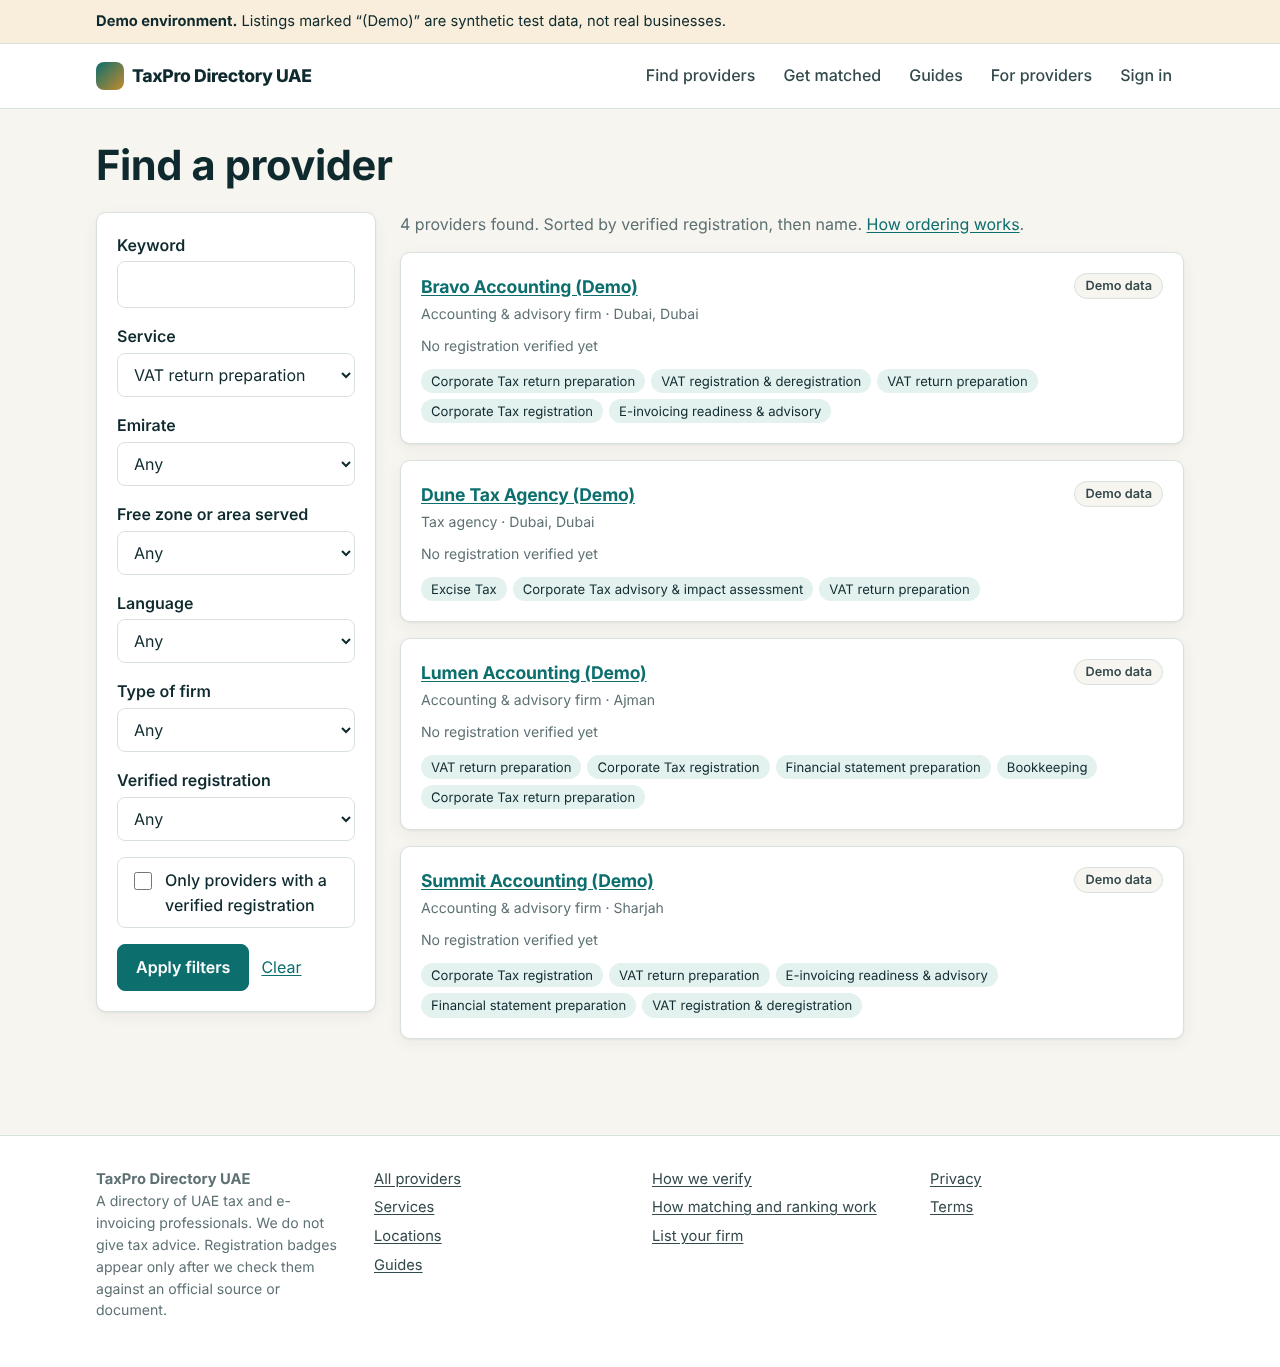
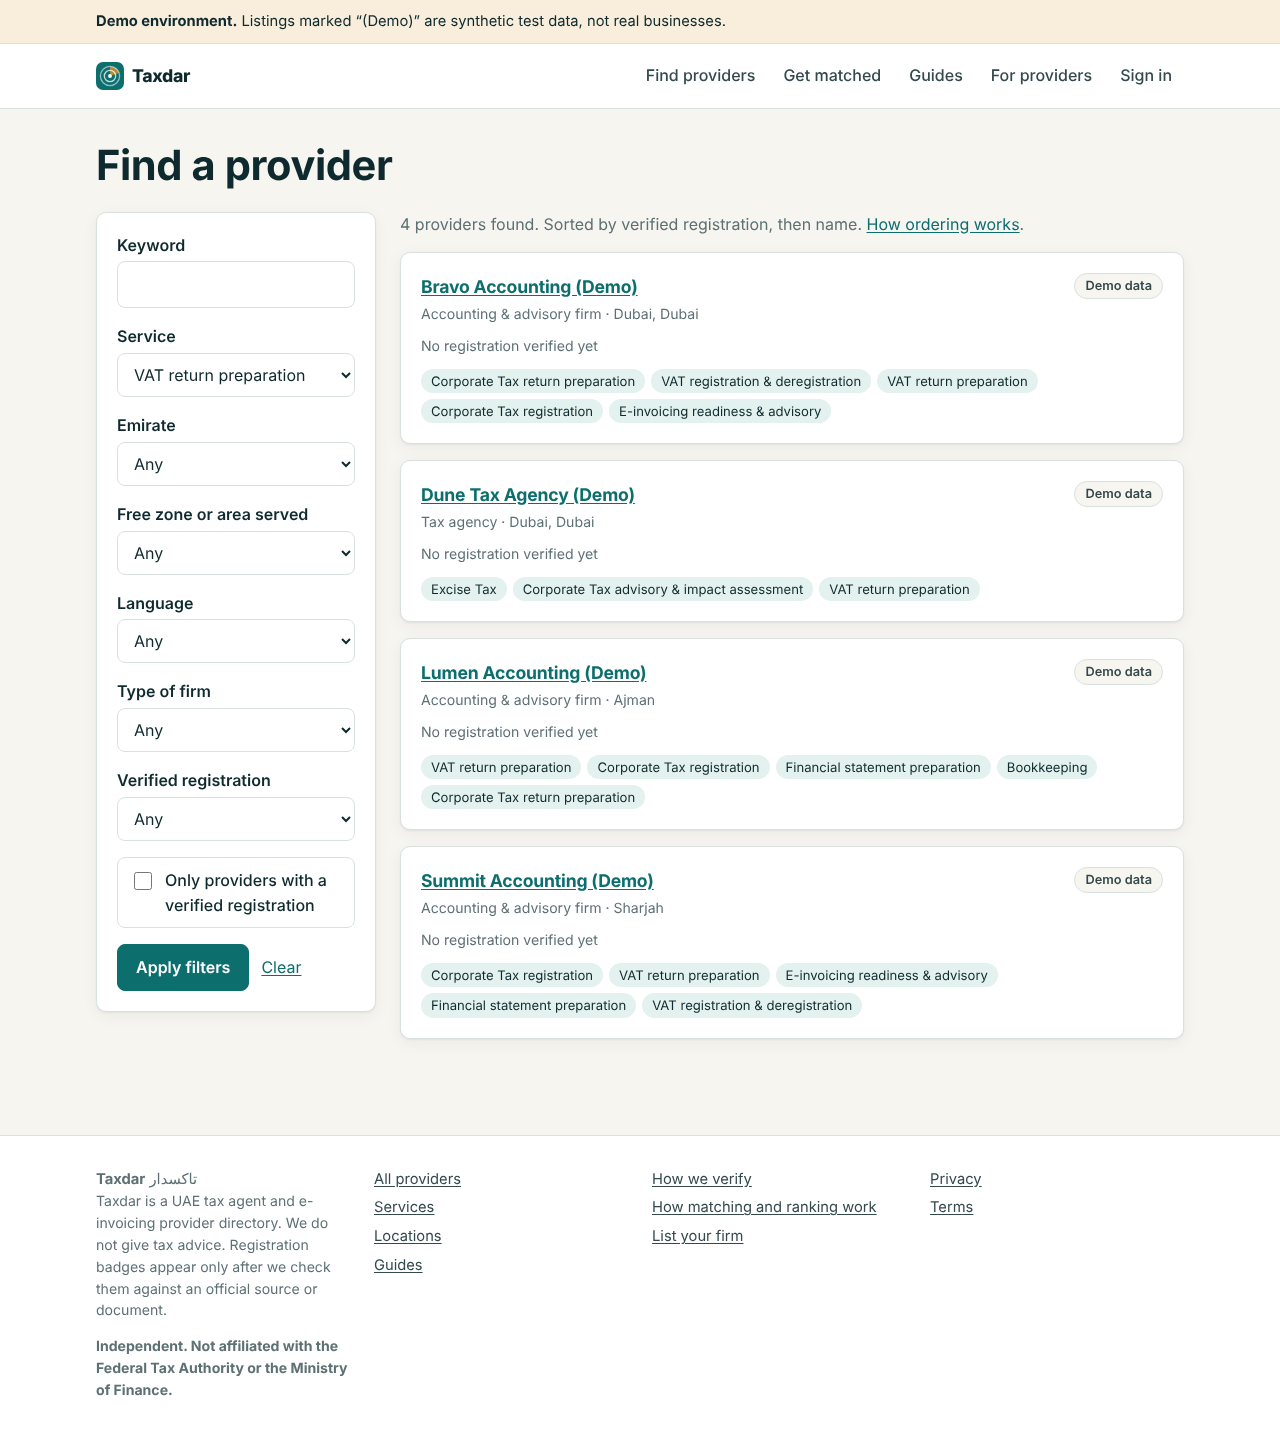
Rebrand to Taxdar (owner decision D-022)
- Name, Arabic name, descriptor ("UAE tax agent and e-invoicing provider
  directory") and an independence line, all in src/lib/brand.ts
- New radar logo mark and favicon (app/icon.svg)
- Organization and WebSite structured data carry the Arabic alternate name
- Email subjects start with "Taxdar:"; every email ends with the
  descriptor and the independence line
- Letters, outreach plan, README, backlog and decisions updated;
  screenshots refreshed

Claude-Session: https://claude.ai/code/session_01CjftCtjsy6YL3QLnJSHWGL

diff --git a/src/lib/notify.ts b/src/lib/notify.ts
@@ -4,6 +4,7 @@ import { and, eq, inArray, lte, sql } from "drizzle-orm";
 import type { DB } from "@/db/client";
 import { notifications, enquiryRecipients } from "@/db/schema";
 import { config } from "./config";
+import { BRAND } from "./brand";
 import { audit, SYSTEM, type Actor } from "./audit";
 
 export type Template = "provider_new_enquiry" | "buyer_enquiry_receipt" | "claim_decision" | "account_created" | "provider_enquiry_withdrawn" | "password_reset" | "verify_email";
@@ -50,12 +51,17 @@ export async function enqueue(
  * so personal data is not spread across mailboxes and access is logged.
  */
 export function render(template: Template, p: Record<string, unknown>): Omit<Mail, "to"> {
+  const m = renderBody(template, p);
+  return { subject: `${BRAND.name}: ${m.subject}`, text: `${m.text}\n\n${BRAND.name}, ${BRAND.descriptor}. ${BRAND.independence}` };
+}
+
+function renderBody(template: Template, p: Record<string, unknown>): Omit<Mail, "to"> {
   const site = config.siteUrl;
   switch (template) {
     case "provider_new_enquiry":
       return {
         subject: `New enquiry ${p.ref} for ${p.orgName}`,
-        text: `A business has chosen to contact ${p.orgName} through the directory.\n\nServices requested: ${(p.services as string[]).join(", ")}\nEmirate: ${p.emirate}\n\nSign in to view the enquiry and the contact details: ${site}/provider/enquiries/${p.recipientId}\n\nPlease accept or decline within 2 business days so the business can look elsewhere if needed.`,
+        text: `A business has chosen to contact ${p.orgName} through Taxdar.\n\nServices requested: ${(p.services as string[]).join(", ")}\nEmirate: ${p.emirate}\n\nSign in to view the enquiry and the contact details: ${site}/provider/enquiries/${p.recipientId}\n\nPlease accept or decline within 2 business days so the business can look elsewhere if needed.`,
       };
     case "buyer_enquiry_receipt":
       return {
@@ -80,7 +86,7 @@ export function render(template: Template, p: Record<string, unknown>): Omit<Mai
     case "verify_email":
       return {
         subject: "Confirm your email address",
-        text: `Please confirm this email address so your firm can receive enquiries through the directory: ${site}/verify-email/${p.setPasswordToken}\nThe link works once and expires in 72 hours. If you did not create a listing, ignore this email.`,
+        text: `Please confirm this email address so your firm can receive enquiries through Taxdar: ${site}/verify-email/${p.setPasswordToken}\nThe link works once and expires in 72 hours. If you did not create a listing, ignore this email.`,
       };
     case "password_reset":
       return {

diff --git a/src/app/layout.tsx b/src/app/layout.tsx
@@ -4,10 +4,12 @@ import "./globals.css";
 import { config } from "@/lib/config";
 import { BRAND } from "@/lib/brand";
 import { currentUser } from "@/lib/session";
+import { LogoMark } from "@/components/logo";
 
 export const metadata: Metadata = {
   metadataBase: new URL(config.siteUrl),
-  title: { default: `${BRAND.name}: find UAE tax and e-invoicing professionals`, template: `%s | ${BRAND.name}` },
+  title: { default: `${BRAND.name}: ${BRAND.descriptor}`, template: `%s | ${BRAND.name}` },
+  applicationName: BRAND.name,
   description: BRAND.description,
   robots: config.allowIndexing ? undefined : { index: false, follow: false },
 };
@@ -25,7 +27,7 @@ export default async function RootLayout({ children }: { children: React.ReactNo
         )}
         <header className="site-header">
           <div className="container bar">
-            <Link href="/" className="logo"><span className="logo-mark" aria-hidden="true" />{BRAND.name}</Link>
+            <Link href="/" className="logo"><LogoMark />{BRAND.name}</Link>
             <nav className="nav" aria-label="Main">
               <Link href="/providers">Find providers</Link>
               <Link href="/match">Get matched</Link>
@@ -47,8 +49,9 @@ export default async function RootLayout({ children }: { children: React.ReactNo
         <footer className="site-footer">
           <div className="container cols">
             <div>
-              <strong>{BRAND.name}</strong>
-              <p className="small">A directory of UAE tax and e-invoicing professionals. We do not give tax advice. Registration badges appear only after we check them against an official source or document.</p>
+              <strong>{BRAND.name}</strong> <span lang="ar" dir="rtl">{BRAND.nameAr}</span>
+              <p className="small">{BRAND.name} is a {BRAND.descriptor}. We do not give tax advice. Registration badges appear only after we check them against an official source or document.</p>
+              <p className="small"><strong>{BRAND.independence}</strong></p>
             </div>
             <div>
               <ul>

diff --git a/src/lib/brand.ts b/src/lib/brand.ts
@@ -1,6 +1,11 @@
-/** Working name until the owner chooses a brand and domain (TASK_BACKLOG BIZ-01). */
+/** Brand chosen by the owner on 2026-10-08 (BIZ-01, D-022). Domain and trade-mark checks are still pending. */
 export const BRAND = {
-  name: "TaxPro Directory UAE",
+  name: "Taxdar",
+  nameAr: "تاكسدار",
+  /** Keyword-bearing descriptor used next to the name in titles, structured data and the footer (SEO/GEO). */
+  descriptor: "UAE tax agent and e-invoicing provider directory",
+  /** Shown on every page: the directory must never read as an official service. */
+  independence: "Independent. Not affiliated with the Federal Tax Authority or the Ministry of Finance.",
   description:
-    "Find UAE Corporate Tax, VAT and e-invoicing professionals. Compare services, languages and checked registrations, then send one enquiry to the providers you choose.",
+    "Taxdar is a UAE directory of tax agents and e-invoicing providers. Compare Corporate Tax, VAT and e-invoicing services, languages and checked registrations, then send one enquiry to the providers you choose.",
 } as const;

diff --git a/src/app/page.tsx b/src/app/page.tsx
@@ -13,7 +13,8 @@ export default async function Home() {
   const categories = Object.entries(SERVICE_CATEGORIES);
   return (
     <>
-      <JsonLd data={{ "@context": "https://schema.org", "@type": "WebSite", name: BRAND.name, url: config.siteUrl, potentialAction: { "@type": "SearchAction", target: `${config.siteUrl}/providers?q={query}`, "query-input": "required name=query" } }} />
+      <JsonLd data={{ "@context": "https://schema.org", "@type": "Organization", name: BRAND.name, alternateName: BRAND.nameAr, description: BRAND.description, url: config.siteUrl, logo: `${config.siteUrl}/icon.svg` }} />
+      <JsonLd data={{ "@context": "https://schema.org", "@type": "WebSite", name: BRAND.name, alternateName: BRAND.nameAr, url: config.siteUrl, potentialAction: { "@type": "SearchAction", target: `${config.siteUrl}/providers?q={query}`, "query-input": "required name=query" } }} />
       <section className="hero">
         <div className="container">
           <h1>Find UAE tax and e-invoicing professionals whose registrations you can check</h1>

diff --git a/src/app/globals.css b/src/app/globals.css
@@ -50,7 +50,7 @@ p { margin: 0 0 1em; }
 .site-header { background: var(--surface); border-bottom: 1px solid var(--line); position: sticky; top: 0; z-index: 20; }
 .site-header .bar { display: flex; align-items: center; justify-content: space-between; gap: 16px; min-height: 64px; flex-wrap: wrap; }
 .logo { font-weight: 800; color: var(--ink); text-decoration: none; letter-spacing: -0.02em; font-size: 1.1rem; display: flex; align-items: center; gap: 8px; }
-.logo-mark { width: 28px; height: 28px; border-radius: 8px; background: linear-gradient(135deg, var(--brand), var(--accent)); display: inline-block; }
+.logo-mark { flex: none; display: inline-block; }
 .nav { display: flex; gap: 4px; flex-wrap: wrap; align-items: center; }
 .nav a { padding: 8px 12px; border-radius: 8px; color: var(--ink-2); text-decoration: none; font-weight: 500; }
 .nav a:hover, .nav-button:hover { background: var(--brand-soft); color: var(--ink); }

diff --git a/src/components/logo.tsx b/src/components/logo.tsx
@@ -1,0 +1,12 @@
+/** Taxdar mark: a radar sweep (finding the right professional) in the brand teal and gold. Decorative. */
+export function LogoMark({ size = 28 }: { size?: number }) {
+  return (
+    <svg width={size} height={size} viewBox="0 0 32 32" aria-hidden="true" focusable="false" className="logo-mark">
+      <rect width="32" height="32" rx="8" fill="var(--brand)" />
+      <path d="M16 16 L16 5 A11 11 0 0 1 26.4 12.6 Z" fill="var(--accent)" opacity="0.9" />
+      <circle cx="16" cy="16" r="11" fill="none" stroke="#fff" strokeOpacity="0.55" strokeWidth="1.5" />
+      <circle cx="16" cy="16" r="6.5" fill="none" stroke="#fff" strokeOpacity="0.75" strokeWidth="1.5" />
+      <circle cx="16" cy="16" r="2.2" fill="#fff" />
+    </svg>
+  );
+}

diff --git a/docs/outreach/03-provider-outreach-plan.md b/docs/outreach/03-provider-outreach-plan.md
@@ -59,7 +59,7 @@ Track the funnel in a simple sheet with these stages: contacted → replied → 
 
 Dear [Firm name] team,
 
-I am [your name], founder of [Brand], a directory for UAE businesses looking for tax agents and e-invoicing providers. We have not launched yet. I am contacting a small number of firms that we would like to include from the start, and [Firm name] is one of them because of [specific reason: your corporate tax work for family businesses in Sharjah / your Arabic and English service / your published e-invoicing guidance].
+I am [your name], founder of Taxdar, a directory for UAE businesses looking for tax agents and e-invoicing providers. We have not launched yet. I am contacting a small number of firms that we would like to include from the start, and [Firm name] is one of them because of [specific reason: your corporate tax work for family businesses in Sharjah / your Arabic and English service / your published e-invoicing guidance].
 
 How it works, briefly:
 - businesses answer a few questions about what they need;
@@ -85,7 +85,7 @@ Kind regards,
 
 Dear [Firm name] team,
 
-A short follow-up to my note last week about [Brand]. If a call isn't convenient, I'm happy to send a two-minute walkthrough instead.
+A short follow-up to my note last week about Taxdar. If a call isn't convenient, I'm happy to send a two-minute walkthrough instead.
 
 If now is not the right time, no reply is needed and I won't write again.
 
@@ -94,7 +94,7 @@ Kind regards,
 
 ### 4c. LinkedIn connection note (max 300 characters). ON HOLD until counsel confirms
 
-Hello [Name], I'm building [Brand], a UAE directory where businesses find tax agents and e-invoicing providers, with registrations checked before they show as verified. I'd value 20 minutes of your view on pricing before launch. Open to a quick call?
+Hello [Name], I'm building Taxdar, a UAE directory where businesses find tax agents and e-invoicing providers, with registrations checked before they show as verified. I'd value 20 minutes of your view on pricing before launch. Open to a quick call?
 
 ### 4d. Reply to a firm that wants to list
 

diff --git a/docs/TASK_BACKLOG.md b/docs/TASK_BACKLOG.md
@@ -13,7 +13,7 @@ Evidence for COMPLETE items: `EVIDENCE_LOG.md`.
 | LG-05 | Counsel: listing non-registered consultants next to registered agents (Tax Procedures law) | Counsel | BLOCKED | Opinion |
 | LG-06 | Privacy notice and terms are DRAFTS (`/privacy`, `/terms`) | Counsel | BLOCKED | Approved text |
 | LG-07 | Counsel: may the legal trade name and trademark contain "Tax" for a directory/platform licence (activity fit, regulator approval), and does the brand plus descriptor avoid implied FTA/MoF affiliation? (`docs/research/brand-name-options-2026-10.md`) | Counsel | BLOCKED | Written opinion |
-| BIZ-01 | Brand name and domain (working name "TaxPro Directory UAE"); options in `docs/research/brand-name-options-2026-10.md` (pick: Taxdar) | Owner | BLOCKED | Decide; registry and domain checks; purchase needs approval |
+| BIZ-01 | Brand name and domain: **Taxdar** chosen 2026-10-08 (D-022); app rebranded | Owner | IN PROGRESS | Check taxdar.ae / taxdar.com at a registrar; trade-mark search (MoE, WIPO; classes 35, 42); DET trade-name check; native Arabic review; counsel on LG-07; domain purchase needs approval |
 | BIZ-02 | Real prices, caps, refund policy (D-007 placeholders) | Owner | BLOCKED | Validate with 10+ provider interviews |
 | BIZ-03 | Ask the FTA and MoF for permission or a data feed for register data | Owner | BLOCKED | Letter (outreach approval) |
 | BIZ-04 | Real supply: onboard first providers via self-listing (outreach needs approval) | Owner | BLOCKED | Approve outreach plan |

diff --git a/docs/OWNER_QUESTIONS.md b/docs/OWNER_QUESTIONS.md
@@ -31,3 +31,6 @@ Engineering work that can be done without these answers is done. Each answer unb
 | Q9 | Use Claude's legal skills | **Not possible for this role.** The guide gate needs a named human professional with a credential, because the "Reviewed by" line is a public statement that a qualified person checked the text. An AI review cannot be that person. Claude can pre-review drafts (sources, copy rules) to save the reviewer's time. Candidate profile and sourcing in the decision memo |
 | Q10 | `*.gov.ae` allowed | **Not yet effective in this session.** The egress proxy still refuses tax.gov.ae (HTTP 403, organisation policy), and the web fetch tool cannot resolve `.ae` names. The environment's allowed domains need `tax.gov.ae`, `mof.gov.ae`, `u.ae`, `uaelegislation.gov.ae` (or `*.gov.ae`, `*.ae`), then a new session. RG-01 stays open |
 | Q11 | Private staging approved | Staging access gate built (HTTP Basic, fail closed, noindex). Deploying needs a hosting account in the owner's name (billable) and secrets. Steps in `docs/RUNBOOK.md` "Private staging" |
+
+### Round 2 (2026-10-08)
+- Q3: **Taxdar** chosen. App rebranded (name, descriptor, Arabic name, independence line, logo, favicon, structured data, email subjects). Still to do: registrar, trade-mark and trade-name checks before buying the domain.

diff --git a/docs/DECISIONS.md b/docs/DECISIONS.md
@@ -23,3 +23,4 @@
 | D-019 | 2026-10-08 | Tier 1 sources are limited to official domains (*.gov.ae, u.ae, ADGM, DIFC, WAM) | "Official" must be checkable by code, not by a label (review2 M3) | free-text tier | Add a domain when a new official publisher is needed |
 | D-020 | 2026-10-08 | People are soft-deleted | Disputes and submissions about their registrations must survive removal (review2 M5) | hard delete with cascade | Removed rows stay in the DB; never shown publicly |
 | D-021 | 2026-10-08 | Provider two-factor is optional; turning it off needs a current code; staff cannot turn theirs off | Protects buyer data without blocking small firms at sign-up; owner may make it mandatory later | mandatory for providers | Lost device → admin reset at `/admin/staff` after an identity check |
+| D-022 | 2026-10-08 | Brand: **Taxdar** (Arabic تاكسدار), with the descriptor "UAE tax agent and e-invoicing provider directory" and an independence line on every page and email | Owner's choice from `docs/research/brand-name-options-2026-10.md`: keyword fit, distinctive for search and AI answers, no collision found | TaxDaleel (official-guide confusion; "Daleel" in use) | Domain, trade-mark and trade-name checks still pending; rename is one constant (`src/lib/brand.ts`) if a check fails |

diff --git a/docs/outreach/01-letter-fta-register.md b/docs/outreach/01-letter-fta-register.md
@@ -25,7 +25,7 @@ Attention: [Taxpayer Services / Tax Agents Department, if known]
 
 Dear Sir or Madam,
 
-[Company legal name] is a company licensed in [emirate / free zone] under licence number [number]. We are preparing to launch [Brand], an online directory that helps businesses in the UAE find a qualified tax agent or e-invoicing service provider and contact them. The service is not yet open to the public.
+[Company legal name] is a company licensed in [emirate / free zone] under licence number [number]. We are preparing to launch Taxdar, an online directory that helps businesses in the UAE find a qualified tax agent or e-invoicing service provider and contact them. The service is not yet open to the public.
 
 We are writing before launch because our approach depends on the Register of Tax Agents published on the Authority's website. We want to be sure that the way we intend to use it is acceptable to the Authority.
 

diff --git a/docs/outreach/02-letter-mof-asp-list.md b/docs/outreach/02-letter-mof-asp-list.md
@@ -22,7 +22,7 @@ Ministry of Finance
 
 Dear Sir or Madam,
 
-[Company legal name], licensed in [emirate / free zone] under licence number [number], is preparing to launch [Brand]. It is an online directory where UAE businesses can find e-invoicing service providers and tax agents and contact them. The service is not yet public.
+[Company legal name], licensed in [emirate / free zone] under licence number [number], is preparing to launch Taxdar. It is an online directory where UAE businesses can find e-invoicing service providers and tax agents and contact them. The service is not yet public.
 
 Many businesses will be choosing an e-invoicing provider over the coming months. We would like to help them do so with accurate information. Our approach relies on the list of accredited service providers that the Ministry publishes, and we would like to confirm that our approach is acceptable to the Ministry.
 
